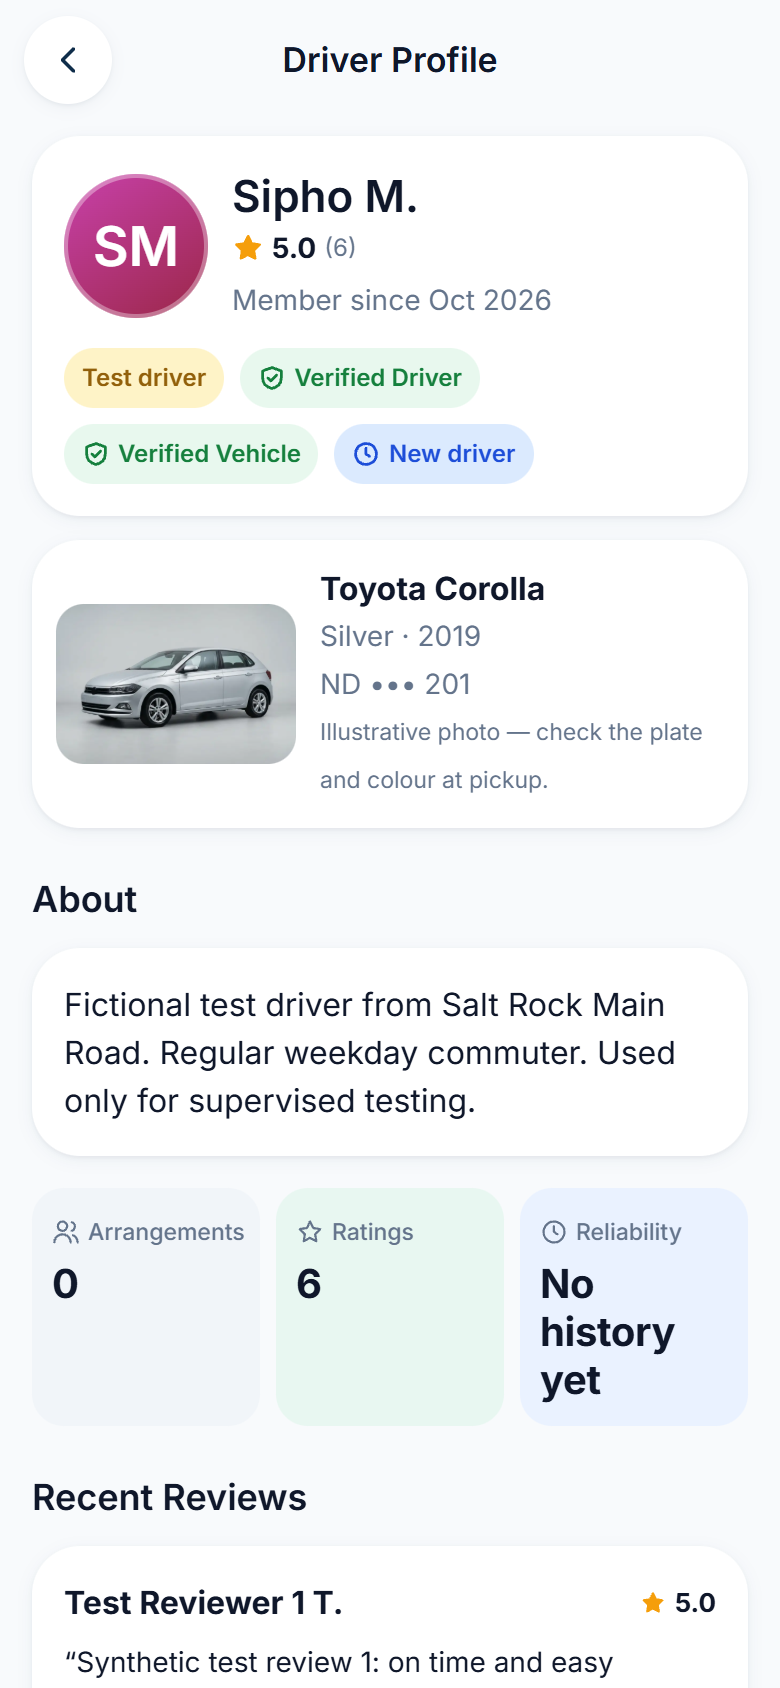
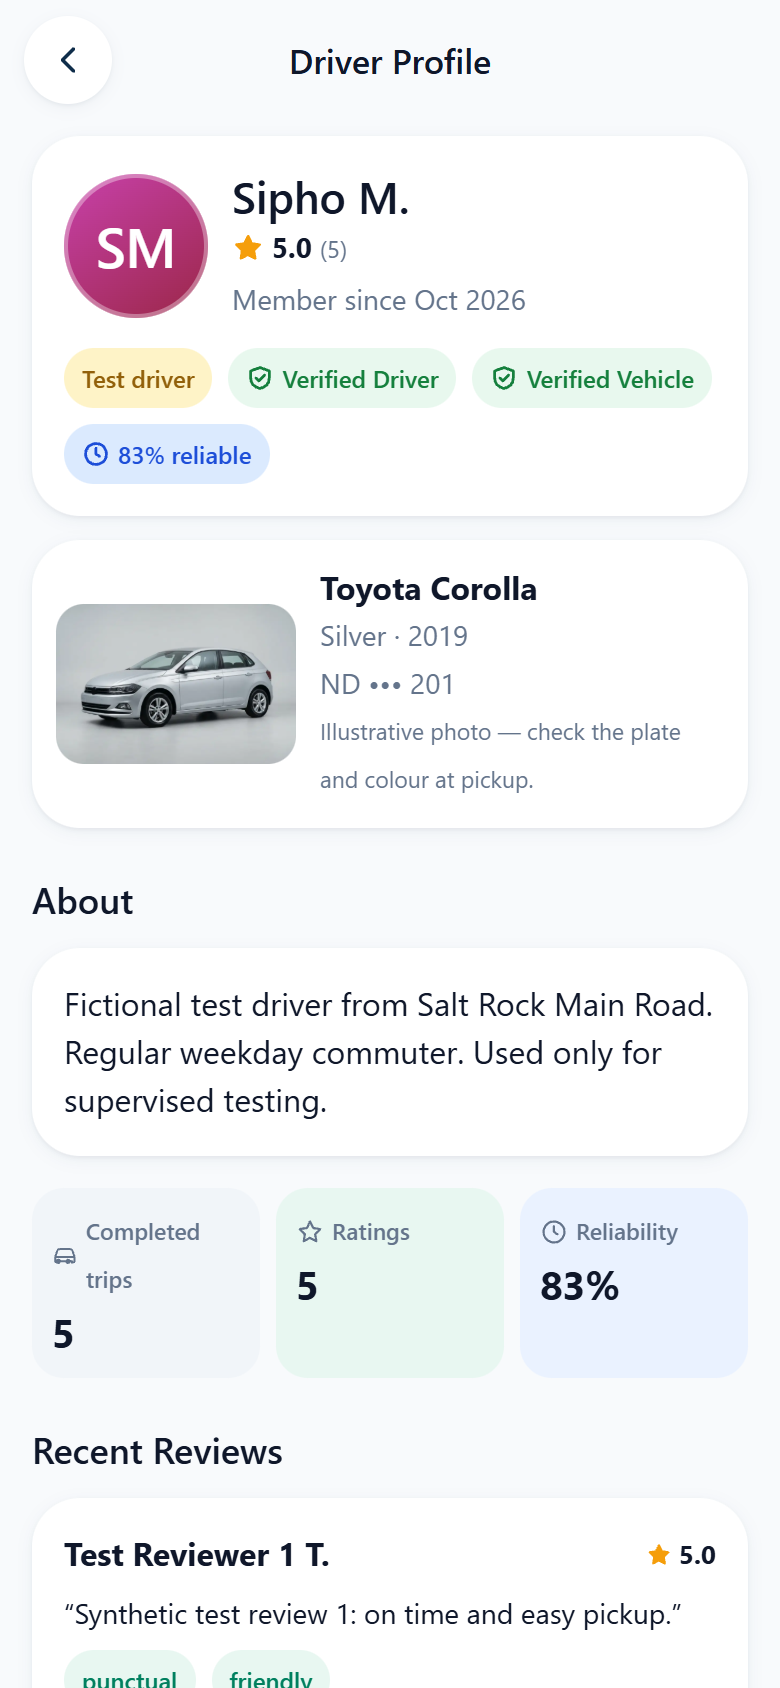
test: verify manual acceptance and document pilot checks

diff --git a/tests/e2e-local/manual-accept.spec.ts b/tests/e2e-local/manual-accept.spec.ts
@@ -1,0 +1,105 @@
+import { expect, test, type Page } from '@playwright/test'
+import { mkdirSync } from 'node:fs'
+import { signInViaUi } from './auth-helpers'
+import { PASSENGER, enterCode, resetTestUsers, sql, startSignUp, userId } from './helpers'
+
+const SIPHO = 'e0000000-0000-4000-8000-000000000101'
+const SIPHO_PHONE = { national: '820000101', code: '123456' }
+
+async function manualAddress(page: Page, index: number, label: string, lat: number, lng: number) {
+  await page.getByRole('button', { name: /^(Choose on map|Enter coordinates)$/ }).nth(index).click()
+  const manual = page.getByRole('button', { name: 'Enter coordinates manually' })
+  if (await manual.isVisible()) await manual.click()
+  await page.getByLabel('Location label', { exact: true }).fill(label)
+  await page.getByLabel('Latitude', { exact: true }).fill(String(lat))
+  await page.getByLabel('Longitude', { exact: true }).fill(String(lng))
+  await page.getByRole('button', { name: 'Use this spot' }).click()
+}
+
+test('current manual driver accepts a fresh road quote through the normal UI and restores the accepted state', async ({ page, browser }) => {
+  test.setTimeout(300_000) // real road routing, two OTP sessions, reloads and scoped database cleanup
+  resetTestUsers() // only the three reserved local fake phone numbers; restores seats first
+  const settings = JSON.parse(sql(`select json_build_object('auto',auto_respond,'delay',response_delay_seconds,'decline',decline_percent) from lifty_private.test_driver_settings where driver_id='${SIPHO}'`))
+  sql(`select public.configure_test_driver('${SIPHO}',false,5,0)`)
+  const driverContext = await browser.newContext({ baseURL: 'http://127.0.0.1:5180', viewport: { width: 390, height: 844 }, locale: 'en-ZA', timezoneId: 'Africa/Johannesburg' })
+  const driverPage = await driverContext.newPage()
+  try {
+    // Keep Auth, matching and acceptance real; font availability is unrelated.
+    for (const current of [page, driverPage]) {
+      await current.route('https://fonts.googleapis.com/**', route => route.fulfill({ status: 200, contentType: 'text/css', body: '' }))
+      await current.route('https://fonts.gstatic.com/**', route => route.abort())
+    }
+    await startSignUp(page, 'passenger', 'Test Passenger', PASSENGER)
+    await enterCode(page, PASSENGER.code)
+    await expect(page.getByText('Your commuting details')).toBeVisible()
+    await manualAddress(page, 0, 'Salt Rock Main Road', -29.488331, 31.234003)
+    await manualAddress(page, 1, 'Umhlanga Ridge', -29.739187, 31.076244)
+    await page.getByRole('button', { name: 'Continue', exact: true }).click()
+    await page.getByLabel('Preferred arrival time').selectOption('08:00')
+    await page.getByRole('button', { name: 'Continue', exact: true }).click()
+    await page.getByRole('button', { name: /Finish/ }).click()
+    await expect(page).toHaveURL(/\/p\/home/)
+    await page.goto('/p/find', { waitUntil: 'domcontentloaded' })
+    await page.getByRole('button', { name: /Arrival time/ }).click()
+    await page.getByRole('radio', { name: '30 min', exact: true }).click()
+    await page.getByRole('button', { name: 'Done', exact: true }).click()
+    await page.getByRole('button', { name: 'Find Lift Clubs' }).click()
+    await expect(page.getByText('Available Lift Clubs')).toBeVisible({ timeout: 60_000 })
+    await page.getByRole('button', { name: /View match with Sipho/ }).click()
+    const [statsResponse] = await Promise.all([
+      page.waitForResponse(response => response.url().endsWith('/rpc/get_driver_trip_stats')),
+      page.getByRole('button', { name: 'View Driver Profile' }).click(),
+    ])
+    expect(statsResponse.ok()).toBe(true)
+    const stats = await statsResponse.json()
+    expect(stats.completedTrips).toBeGreaterThan(0)
+    await expect(page.locator('.metric').filter({ hasText: 'Completed trips' }).locator('.metric-value')).toHaveText(String(stats.completedTrips))
+    await expect(page.getByText(`${stats.reliability}% reliable`, { exact: true })).toBeVisible()
+    mkdirSync('docs/review/local-390', { recursive: true })
+    await page.screenshot({ path: 'docs/review/local-390/04-public-driver-profile.png' })
+    await page.getByText('Recent Reviews', { exact: true }).scrollIntoViewIfNeeded()
+    await page.screenshot({ path: 'docs/review/local-390/05-public-driver-reviews.png' })
+    await page.getByRole('button', { name: 'Go back', exact: true }).click()
+    await page.getByRole('button', { name: 'Request to Join' }).click()
+    await page.getByRole('button', { name: 'Send Request' }).click()
+    await expect(page.getByText('Request Sent!')).toBeVisible()
+    const requestId = new URL(page.url()).searchParams.get('request')
+    expect(requestId).toMatch(/^[0-9a-f-]{36}$/)
+    expect(sql(`select match_snapshot->>'routing' from public.join_requests where id='${requestId}'`)).toBe('road')
+
+    await signInViaUi(driverPage, SIPHO_PHONE)
+    await expect(driverPage).toHaveURL(/\/d\/home/)
+    await driverPage.goto(`/d/request/${requestId}`, { waitUntil: 'domcontentloaded' })
+    await expect(driverPage.getByRole('button', { name: 'Accept Passenger' })).toBeEnabled()
+    mkdirSync('docs/review/local-390', { recursive: true })
+    await driverPage.screenshot({ path: 'docs/review/local-390/manual-accept-request-390.png' })
+    const acceptStarted = Date.now()
+    const [response] = await Promise.all([
+      driverPage.waitForResponse(response => response.url().endsWith('/rpc/respond_to_request') && response.request().method() === 'POST'),
+      driverPage.getByRole('button', { name: 'Accept Passenger' }).click(),
+    ])
+    const responseText = await response.text()
+    expect(response.ok(), responseText).toBe(true)
+    await expect(driverPage).toHaveURL(/\/d\/requests/)
+    console.log(`Manual acceptance RPC returned ${response.status()} in ${Date.now() - acceptStarted}ms`)
+    await expect(driverPage.getByText('Accepted', { exact: true }).first()).toBeVisible()
+    await driverPage.reload({ waitUntil: 'domcontentloaded' })
+    await expect(driverPage.getByText('Accepted', { exact: true }).first()).toBeVisible()
+    await driverPage.screenshot({ path: 'docs/review/local-390/manual-accept-persisted-390.png' })
+    await expect(page.getByText('You’re In!', { exact: true })).toBeVisible({ timeout: 30_000 })
+    await page.reload({ waitUntil: 'domcontentloaded' })
+    await expect(page.getByText('You’re In!', { exact: true })).toBeVisible()
+    await page.screenshot({ path: 'docs/review/local-390/manual-accept-passenger-390.png' })
+    const passengerId = userId(PASSENGER)
+    expect(sql(`select status from public.join_requests where id='${requestId}' and passenger_id='${passengerId}'`)).toBe('accepted')
+    expect(sql(`select count(*) from public.club_members where request_id='${requestId}' and passenger_id='${passengerId}' and active`)).toBe('1')
+  } catch (error) {
+    await driverPage.screenshot({ path: 'test-results-local/manual-driver-page-at-failure.png' }).catch(() => undefined)
+    throw error
+  } finally {
+    await driverContext.close()
+    // Restore only the reserved fixture accounts and the one test driver's operator setting.
+    resetTestUsers()
+    sql(`select public.configure_test_driver('${SIPHO}',${settings.auto},${settings.delay},${settings.decline})`)
+  }
+})

diff --git a/tests/browser/pilot.spec.ts b/tests/browser/pilot.spec.ts
@@ -1,5 +1,9 @@
 import {test,expect,type Page} from '@playwright/test'
 test.use({viewport:{width:390,height:844},timezoneId:'Africa/Johannesburg'})
+test.beforeEach(async ({ page }) => {
+ await page.route('https://fonts.googleapis.com/**', route => route.fulfill({status:200,contentType:'text/css',body:''}))
+ await page.route('https://fonts.gstatic.com/**', route => route.abort())
+})
 const project='kdjzevtryezwbjdgyqaf'
 const id='11111111-1111-4111-8111-111111111111'
 const second='22222222-2222-4222-8222-222222222222'
@@ -113,6 +117,7 @@ test('failed low-data save keeps the server preference and reports the error',as
  await page.route('**/rest/v1/profile_private*',route=>route.fulfill({status:400,contentType:'application/json',body:JSON.stringify({message:'Preference save failed'})}))
  await page.addInitScript(({s,p})=>{localStorage.setItem('lifty.source',JSON.stringify('live'));localStorage.setItem('sb-'+p+'-auth-token',JSON.stringify(s))},{s:session(id),p:project})
  await page.goto('/p/profile')
+ await expect(page.getByRole('heading',{name:'Browser Fixture',exact:true})).toBeVisible({timeout:15_000})
  const toggle=page.getByRole('switch',{name:'Low-data mode',exact:true})
  await expect(toggle).toBeChecked();await toggle.click()
  await expect(page.getByText('Preference save failed',{exact:true})).toBeVisible()

diff --git a/tests/browser/session.spec.ts b/tests/browser/session.spec.ts
@@ -1,5 +1,10 @@
 import { expect, test, type Page, type Route } from '@playwright/test'
 
+test.beforeEach(async ({ page }) => {
+  await page.route('https://fonts.googleapis.com/**', route => route.fulfill({ status: 200, contentType: 'text/css', body: '' }))
+  await page.route('https://fonts.gstatic.com/**', route => route.abort())
+})
+
 /**
  * "Works in a private tab, fails in a normal tab": a normal browser carries state from earlier visits (an old demo choice, an
  * expired login, a login the server no longer accepts, a bad connection at launch). These tests give the app exactly that
@@ -140,9 +145,10 @@ test('signing out works with no connection at all', async ({ page }) => {
 })
 
 test('every signed-in area sends a logged-out visitor to the welcome screen', async ({ page }) => {
+  test.setTimeout(90_000) // seven complete app loads; each redirect assertion remains bounded
   await fakeBackend(page)
   for (const path of ['/p/home', '/p/find', '/p/profile', '/p/matches', '/d/home', '/d/profile', '/onboarding/passenger/1']) {
-    await page.goto(path)
+    await page.goto(path, { waitUntil: 'domcontentloaded' })
     await expect(page, path).toHaveURL(/\/welcome$/)
   }
 })

diff --git a/docs/verification-2026-10-15.md b/docs/verification-2026-10-15.md
@@ -1,0 +1,74 @@
+# Lifty continuation verification — 15–16 October 2026
+
+## What was already finished
+
+The checkout was clean when this continuation resumed. Claude had already committed and pushed the implementation to `fix/map-pin-test-drivers-demo-toggle` in the private repository `https://github.com/xabisontanta/lifty`:
+
+- `da20532`: backend-only runtime, foreground map location and tracking recovery.
+- `17de54c`: labelled server test drivers, simulator, isolation and guarded local tooling.
+- `c58155a`: make the pilot SQL test passenger a normal-shaped account so its assertions exercise real account visibility.
+
+GitHub's branch head was verified directly as `c58155a4c4cc6401abcf840ba728c7057d2e5075`. Working implementations were preserved. This continuation adds verification evidence and corrects operator documentation; it does not repeat the feature implementation.
+
+## Current verification
+
+| Check | Latest result (15–16 October) |
+| --- | --- |
+| TypeScript | Passed |
+| ESLint | Passed |
+| Unit tests | 196 passed across 15 files |
+| Production build | Passed; existing bundle-size and mixed-import warnings remain |
+| Source credential scan | Passed; ignored environment files excluded |
+| Map browser journeys at 390 px | 9 passed in 56.8 seconds |
+| Account/settings/ratings browser scenarios | 24 passed in 1.5 minutes, using an intercepted backend |
+| Fresh local manual-driver browser journey | 1 passed in 3.3 minutes; real local OTP, road quote, HTTP 204 acceptance, both accounts restored after reload and database membership confirmed |
+| Original pilot database suite | 59 passed, 0 failed; rolled back |
+| Final-seat race | Two concurrent lock contenders; exactly one acceptance, one active member, zero open seats; three generated accounts cleaned |
+| Test-driver isolation | 25 passed, 0 failed; rolled back |
+| Test-driver lifecycle | 31 passed, 0 failed; rolled back |
+| Test-driver safety/cleanup | 23 passed, 0 failed; rolled back |
+| Fresh schema replay | All 19 canonical migrations; 20 drivers, 40 measured legs, 146 synthetic reviews; the same 25/31/23 suites passed |
+
+The exact committed migration was replayed in the dedicated disposable local database on port 58322. The normal browser sandbox on 57322 and unrelated projects were left intact. No hosted SQL, migration, seed, cleanup or deployment was performed.
+
+The older full browser lifecycle artifact from 10 October failed on manual driver acceptance because the server returned HTTP 500 / SQLSTATE 57014 (`canceling statement due to statement timeout`). It predates the latest implementation commits and is not evidence of a missed click or broken navigation. A fresh normal-authenticated browser journey passed on 16 October: the acceptance RPC returned HTTP 204, with RPC plus navigation taking 2,439 ms. Both driver and passenger then reloaded into the accepted state, and the database contained exactly one active membership for that request. The reserved fixture accounts and driver setting were restored afterward. The older long end-to-end run must still not be described as passing.
+
+The first browser reruns exposed test dependencies on the external font CDN and on waiting for every page resource to load. The tests now intercept fonts, await visible account state and use DOM-ready navigation where appropriate. The sign-in assertions and real local Auth/matching/acceptance requests remain intact; no application authentication code was changed.
+
+## Usability findings
+
+| Severity | Finding and disposition | Evidence |
+| --- | --- | --- |
+| Blocker, fixed | A disabled backend could fall back to fake signup or a locally selected demo account. Runtime data is backend-only; missing configuration is explicit. | `src/services/api.ts`, `src/screens/auth/Auth.tsx`, backend-only unit tests |
+| Blocker, fixed | Local role/onboarding/sample state could survive account changes. Authenticated server account state now drives routing. | `src/store/app.tsx`, `src/App.tsx`, session browser tests |
+| Blocker, fixed | Uploaded documents could appear approved and incomplete driver routes could finish setup. UI now uses server verification and validates saved routes. | `src/screens/auth/Onboarding.tsx`, `src/screens/driver/Driver.tsx` |
+| Major, fixed | Wrong/stale map locations, automatic pickup selection, stale GPS and blank street-map loading. One fresh device dot, distinct saved/pickup markers, accuracy, direct recenter, expiry and bounded fallbacks. | Map regression suite; [map screenshot](review/map/correct-pin-390.png) |
+| Major, fixed | Accepted/request reloads could restore the wrong cached arrangement; direct Inbox reload could miss clubs. | `src/screens/passenger/Flow.tsx`, [accepted](review/local-390/07-accepted.png), [Inbox](review/local-390/09-inbox-restored.png) |
+| Major, fixed | Rating failures and loading/errors could trap the user; summary status could require repeated refreshes. Errors/retries/back navigation and server refresh now handle these states. | `Flow.tsx`, [rating](review/local-390/16-rating.png) |
+| Major, fixed | Driver settings had local-only paths; displayed drop-off time could be invented. Settings persist through validated APIs and agreed times come from the server. | `src/screens/driver/PilotDriver.tsx`, `src/services/liveApi.ts` |
+| Major, fixed | Public driver history used arrangement count as a proxy for completed trips and could imply 100% reliability without history. Separate server trip metrics and explicit unknown history are implemented. | `get_driver_trip_stats`, `Flow.tsx`, profile browser assertion |
+| Minor, fixed | Decorative search delay, evening empty-state editing morning time, walking-cap no-ops and missing test badges. | `Flow.tsx`, `Plan.tsx`, [search](review/local-390/03-road-matches.png) |
+| Minor, open | Own-account phone numbers are unformatted; accepted-screen Test driver badge fills the row. | [Profile](review/local-390/10-profile.png), [accepted](review/local-390/07-accepted.png) |
+| Minor, open | The production bundle still emits size warnings. | Build output; lazy Mapbox bundle |
+| Major at scale, open | Accepting one request synchronously reconciles dates across all clubs and generates contributions twice while holding the request/leg locks. Authenticated RPCs have an 8-second statement limit. The old timeout alone does not prove this was its cause; measure and scope this work before a larger rollout. | `respond_to_request`, `reconcile_commutes`; read-only function/role review |
+
+## Screenshots and practical limits
+
+The retained screenshots are from 390 px local-backend browser journeys with fixed local OTP and fictional drivers. They are not proof of real SMS, physical GPS accuracy, background Android tracking or closed-app push. The map regression screenshots inject synthetic GPS; the low-data street layout is explicitly illustrative.
+
+- [Correct marker and accuracy](review/map/correct-pin-390.png)
+- [Search with labelled test drivers](review/local-390/03-road-matches.png)
+- [Public driver profile](review/local-390/04-public-driver-profile.png)
+- [Accepted arrangement](review/local-390/07-accepted.png)
+- [Authorized simulated driver position](review/local-390/12-driver-live-position.png)
+- [Rating a completed trip](review/local-390/16-rating.png)
+- [Profile without demo controls](review/local-390/10-profile.png)
+- [Manual driver pickup list](review/local-390/20-driver-pickup-list.png)
+- [Fresh manual acceptance after driver reload](review/local-390/manual-accept-persisted-390.png)
+- [Fresh accepted state after passenger reload](review/local-390/manual-accept-passenger-390.png)
+
+The public-profile and review captures were refreshed against the current local backend. They show five completed trips and five actual synthetic reviews for Sipho, matching `get_driver_trip_stats`; the old arrangement-count proxy is no longer displayed.
+
+See [local testing and staging preparation](local-e2e.md) for fixed targets, simulator controls, non-production seed markers, safe cleanup and replay commands. Test notifications stay in the app and are deliberately excluded from real FCM delivery.
+
+The hosted project has not received this branch's isolation migration. Its earlier demo records therefore remain a separate reviewed release task. The Vercel app has not been updated by this continuation. This React/Vite + Capacitor project cannot run in Expo Go; native Android testing requires the Capacitor build. Real SMS delivery, Android locked-screen GPS and closed-app push still require provider/device verification before pilot readiness.

diff --git a/docs/local-e2e.md b/docs/local-e2e.md
@@ -51,15 +51,18 @@ Stop `dev:local` first; browser tests start their own app on 5180.
 
 ```text
 npm run check
-npm run test:browser
+npm run test:browser -- tests/browser/pilot.spec.ts tests/browser/session.spec.ts --workers=1
 npm run test:e2e:local
 npm run test:coverage
 npm run test:isolation
 npm run test:lifecycle
+npm run test:safety
 npm run check:secrets
 ```
 
 Map-specific tests use `npx playwright test -c playwright.map.config.ts`. Each suite owns its server; avoid duplicate suite runs on the same port. Reports/traces are ignored because they may contain local sessions. Only reviewed PNG screenshots go into `docs/review/`.
+
+For a shorter real-backend acceptance check, run `npm run test:e2e:local -- tests/e2e-local/manual-accept.spec.ts`. It signs up a local passenger, obtains a real road quote, signs in the test driver, accepts through the normal UI and checks both accounts after reload. It does not simulate a trip. Auth and routing stay real; external fonts are intercepted so a font outage cannot stall the check.
 
 `npm run test:e2e:local` needs the sandbox and `npm run stack:gateway` running, but **not** a separately started simulator: the long journey test starts its own simulator process (its log is kept in `test-results-local/simulator.log`) and fixture drivers answer on their own only where a test wants that. Tests that inspect a *pending* request put the fixture drivers on manual first and restore their settings afterwards. A simulator you started yourself is harmless but unnecessary, and it will answer requests during a test run that you expected to stay pending, so stop it first.
 
@@ -67,7 +70,7 @@ The suite can be run repeatedly: each file removes the accounts earlier runs lef
 
 The sandbox raises Auth's hourly SMS cap (`sms_sent`) because one full run requests about 20 codes; the per-number gap between codes is unchanged and is what the "second code straight away" test exercises.
 
-Isolation/lifecycle assertions are rollback-only. Coverage checks use temporary searches and roll back. The original pilot database suite and concurrency check require a local URL:
+Isolation, lifecycle and safety assertions are rollback-only. The safety suite verifies cleanup preserves an unrelated account, seed modes stay unchanged, and fixture notifications cannot be dispatched as real push. Coverage checks use temporary searches and roll back. The original pilot database suite and concurrency check require a local URL:
 
 ```powershell
 $env:LIFTY_TEST_DATABASE_URL='postgresql://postgres:postgres@127.0.0.1:57322/postgres'
@@ -77,6 +80,8 @@ Remove-Item Env:LIFTY_TEST_DATABASE_URL
 ```
 
 Run `npm run types:local` after schema changes. It verifies its local target and does not query a hosted project.
+
+For an exact fresh migration replay, `node scripts/verify-fresh-schema.mjs` creates a separate disposable database on **58322**. It checks all migrations, fixture counts and the three rollback suites. If that replay target already exists, the script refuses to reuse it; `node scripts/verify-fresh-schema.mjs stop` verifies and removes only that disposable target before a fresh run. The browser sandbox on 57322 and other projects stay untouched.
 
 ## Cleanup and reseed
 
@@ -94,6 +99,10 @@ No normal account is part of fixture cleanup. Do not execute either legacy clean
 Prepare a separate non-production Supabase target and reconcile its migrations before applying the isolation migration. Its default mode is disabled; no fixture is visible. Stage only reviewed migration/seed SQL against the explicitly identified staging target. Server credentials and routing keys stay in backend secrets.
 
 A backend operator must set `lifty_private.test_environment.mode` to `staging` and put designated authenticated user UUIDs in `lifty_private.testers`. Unlisted users cannot search, view, request or receive test locations; the client cannot grant itself access. The simulator functions require service-role access and enabled test mode. They are not browser endpoints.
+
+The reviewed seed also requires a transaction-local `lifty.nonproduction_seed` marker matching the already-enabled mode: `LOCAL_LIFTY_ONLY` for local, or `STAGING_LIFTY_ONLY` for staging. It refuses disabled or mismatched targets and never enables or changes a mode itself. Local runners set the local marker only after verifying their fixed Docker target; no staging SQL is executed by them.
+
+Fixture notifications stay in the app. They retain the source trip/leg, become hidden when test access is withdrawn, and are excluded from FCM claims and final per-token dispatch even for an allowlisted tester with a real device token.
 
 The local policy suite exercises disabled, local and staging-allowlist modes against actual Postgres. No remote staging environment was provisioned or verified in this request. Do not enable test visibility on the production project.
 

diff --git a/docs/map-pin-test-drivers-findings.md b/docs/map-pin-test-drivers-findings.md
@@ -1,5 +1,7 @@
 # Map, searches and test drivers — 10 October 2026
 
+Current checks, commit/push status and remaining limitations: [15 October verification](verification-2026-10-15.md).
+
 ## Step 0: inventory before changes
 
 Starting commit: `330256c`, branch `feature/server-side-matching`; working tree was clean. This request is implemented on `fix/map-pin-test-drivers-demo-toggle`. No AGENTS.md was found. The new request prohibits deployment and production data mutations, superseding the earlier deployment request.
@@ -55,7 +57,7 @@ The road matching handler reads only a server routing token and rejects malforme
 
 ### Step 4 — usability
 
-Fixed request/accepted deep links to restore the exact server arrangement after reload. Removed fabricated schedules/member details, added escape routes to loading/error screens, added driver-profile/rating retries and eligibility guards, and restored chat/club state when Inbox opens directly. Pickup loading/empty/error states are explicit; walk-limit controls respect the configured cap. Finding results no longer impose a multi-second decorative delay. All flows are tested at 390 px; detailed findings and screenshot evidence are linked below when verification completes.
+Fixed request/accepted deep links to restore the exact server arrangement after reload. Removed fabricated schedules/member details, added escape routes to loading/error screens, added driver-profile/rating retries and eligibility guards, and restored chat/club state when Inbox opens directly. Pickup loading/empty/error states are explicit; walk-limit controls respect the configured cap. Finding results no longer impose a multi-second decorative delay. Screenshots cover the main flows at 390 px. The older complete lifecycle run did not finish green; see the dated verification report for the exact scope and remaining device/provider checks.
 
 ## Changed-file groups and operator settings
 
